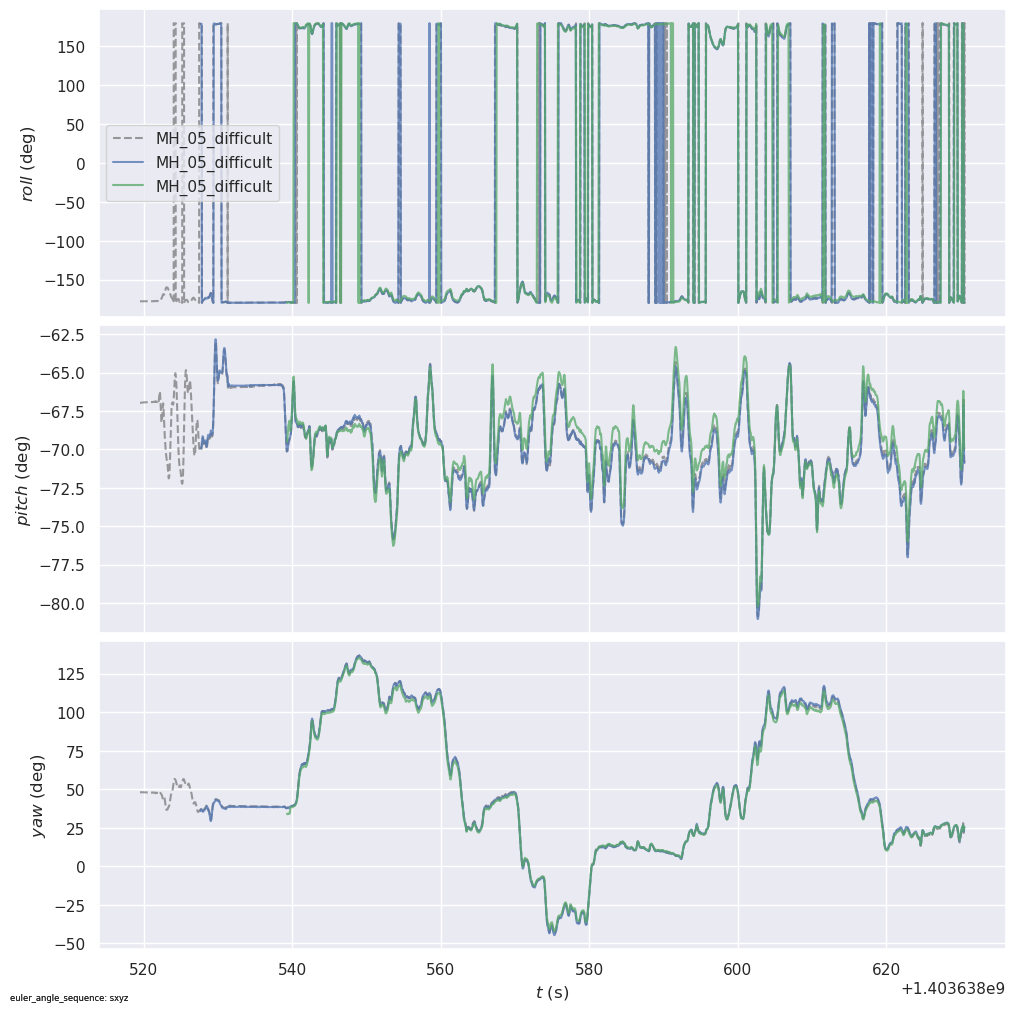
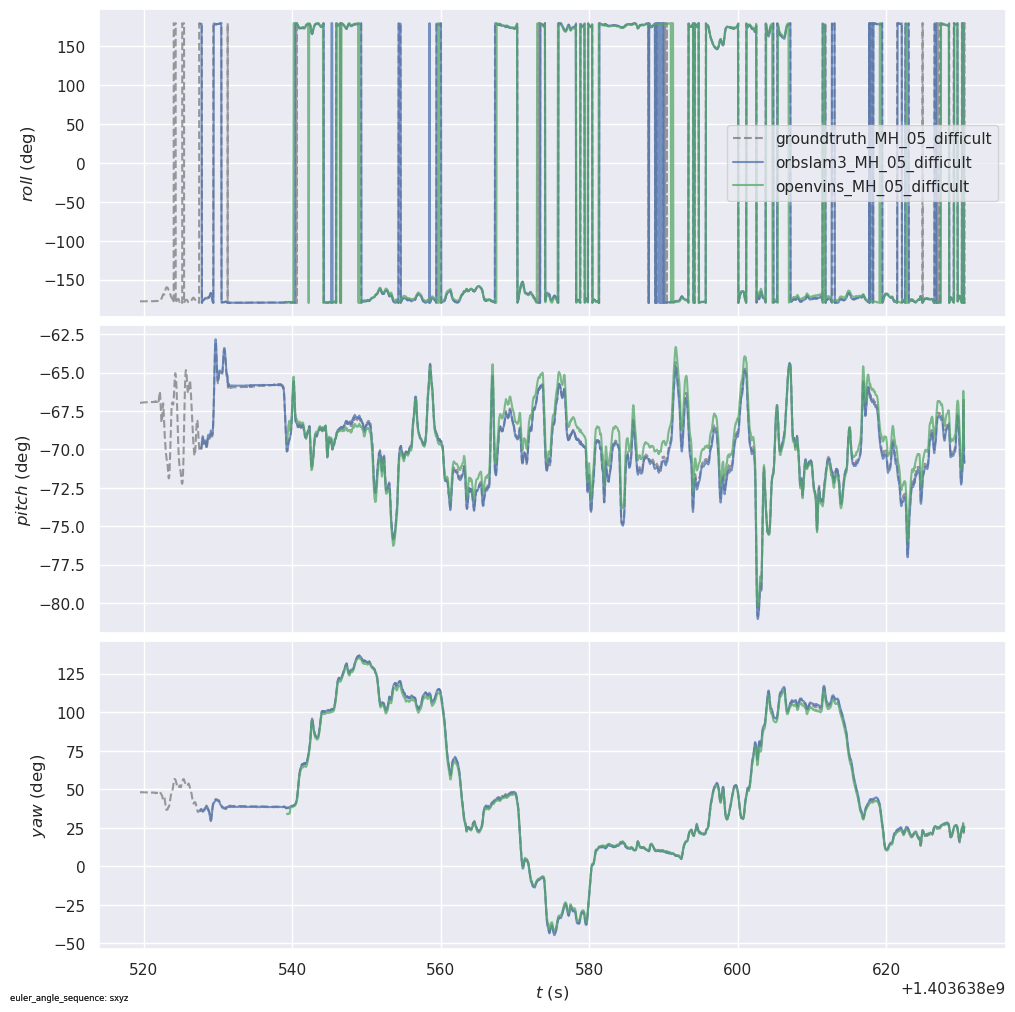
Improve trajectory plot labels

Changed region(s): [[0.7025, 0.1225, 0.9773, 0.2144], [0.1527, 0.1225, 0.2749, 0.2144]]

diff --git a/results/plots/plot_plan.md b/results/plots/plot_plan.md
@@ -37,3 +37,11 @@ Current MVP plot set:
 - results/plots/trajectories/MH_05_difficult_xy_speeds.png
 - results/plots/trajectories/MH_05_difficult_xy_trajectories.png
 - results/plots/trajectories/MH_05_difficult_xy_xyz.png
+
+## Labeling note
+
+The plotting script creates temporary labeled trajectory paths before calling evo_traj, so the plot legends distinguish:
+
+- groundtruth_SEQUENCE
+- orbslam3_SEQUENCE
+- openvins_SEQUENCE
